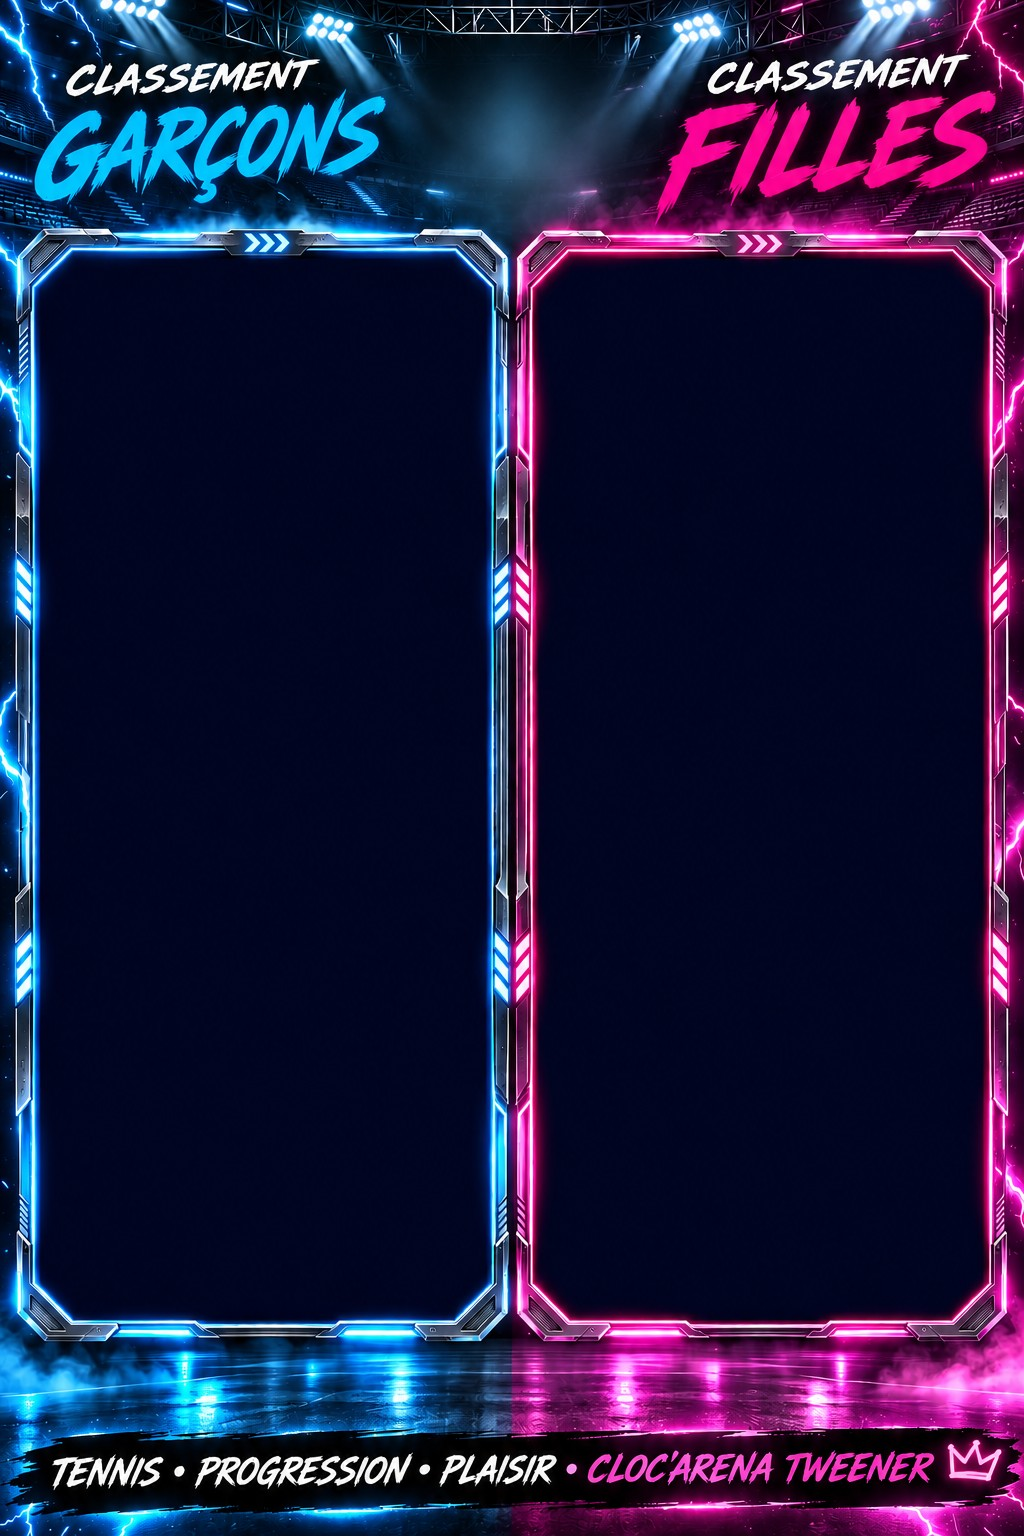
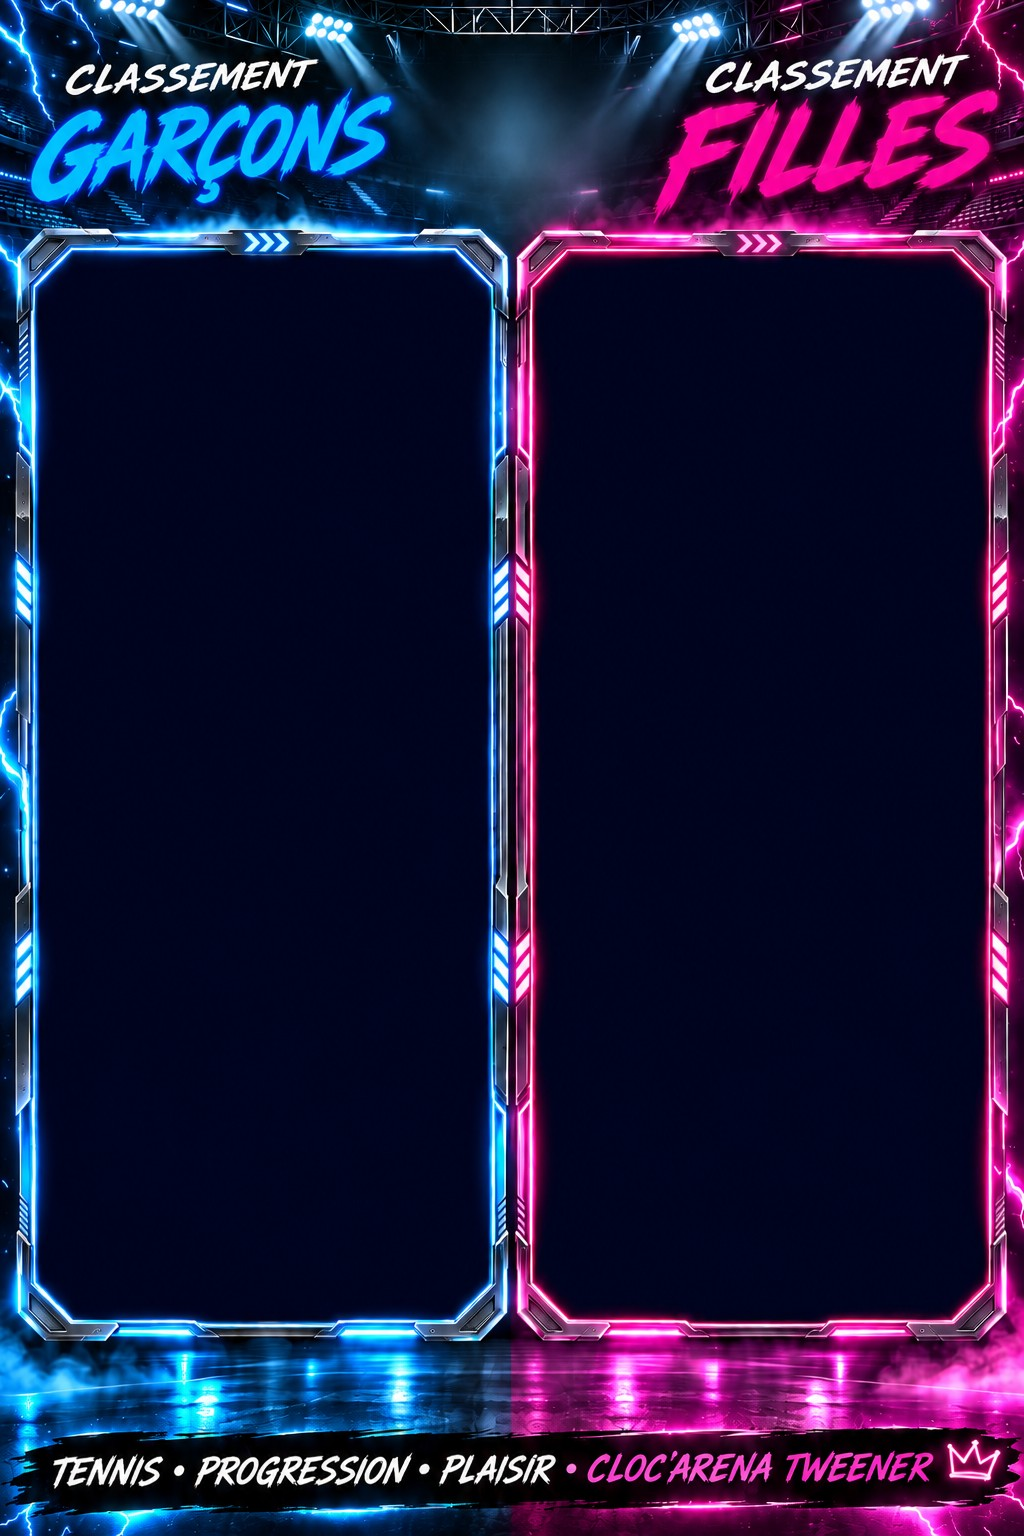
Affiches classement : nouvelle version du fond Garçons/Filles
Claude-Session: https://claude.ai/code/session_01HyZxht9Rr8oqWLRubhPqNV

Changed region(s): [[0.0, 0.0, 1.0, 1.0]]

diff --git a/app/gestion/affiches.js b/app/gestion/affiches.js
@@ -16,7 +16,7 @@ var AFF = {
   LAY: { L: [42, 260, 484, 1315], R: [539, 262, 982, 1314], logo: [512, 118, 200], date: [512, 1392, 18] },
   LISTE: [
     { id: 'general', titre: 'Général', gauche: 'Général', droite: 'Général', fond: 'affiches/fond-general.jpg', niveau: true, lay: { L: [50, 263, 478, 1311], R: [547, 263, 975, 1311], logo: [112, 112, 170], date: [912, 112, 15, 'bloc'], acc: '#ff9a3c' } },
-    { id: 'gf', titre: 'Garçons / Filles', gauche: 'Garçons', droite: 'Filles', fond: 'affiches/fond-garcons-filles.jpg', niveau: true, lay: { L: [45, 260, 484, 1313], R: [540, 259, 982, 1314], logo: [512, 122, 190], date: [512, 1392, 18] } },
+    { id: 'gf', titre: 'Garçons / Filles', gauche: 'Garçons', droite: 'Filles', fond: 'affiches/fond-garcons-filles.jpg?v=2', niveau: true, lay: { L: [45, 260, 484, 1313], R: [540, 259, 982, 1314], logo: [512, 122, 190], date: [512, 1392, 18] } },
     { id: 'bv', titre: 'Blanc / Violet', gauche: 'Blanc', droite: 'Violet', fond: 'affiches/fond-blanc-violet.jpg', lay: { L: [45, 259, 486, 1314], R: [542, 260, 982, 1314], logo: [512, 122, 190], date: [512, 1392, 18] } },
     { id: 'ro', titre: 'Rouge / Orange', gauche: 'Rouge', droite: 'Orange', fond: 'affiches/fond-rouge-orange.jpg', lay: { L: [41, 229, 478, 1399], R: [544, 232, 980, 1396], logo: [512, 92, 175], date: [512, 191, 15] } },
     { id: 'vj', titre: 'Vert / Jaune', gauche: 'Vert', droite: 'Jaune', fond: 'affiches/fond-vert-jaune.jpg', lay: { L: [42, 234, 476, 1396], R: [543, 234, 980, 1397], logo: [512, 92, 175], date: [512, 191, 15] } }

diff --git a/app/gestion/index.html b/app/gestion/index.html
@@ -228,6 +228,6 @@ a.chip{text-decoration:none}
 <script src="https://cdn.jsdelivr.net/npm/@supabase/supabase-js@2"></script>
 <script src="../jeux-moteur.js?v=202611131530"></script>
 <script src="admin.js?v=202611171200"></script>
-<script src="affiches.js?v=202611171325"></script>
+<script src="affiches.js?v=202611171330"></script>
 </body>
 </html>
